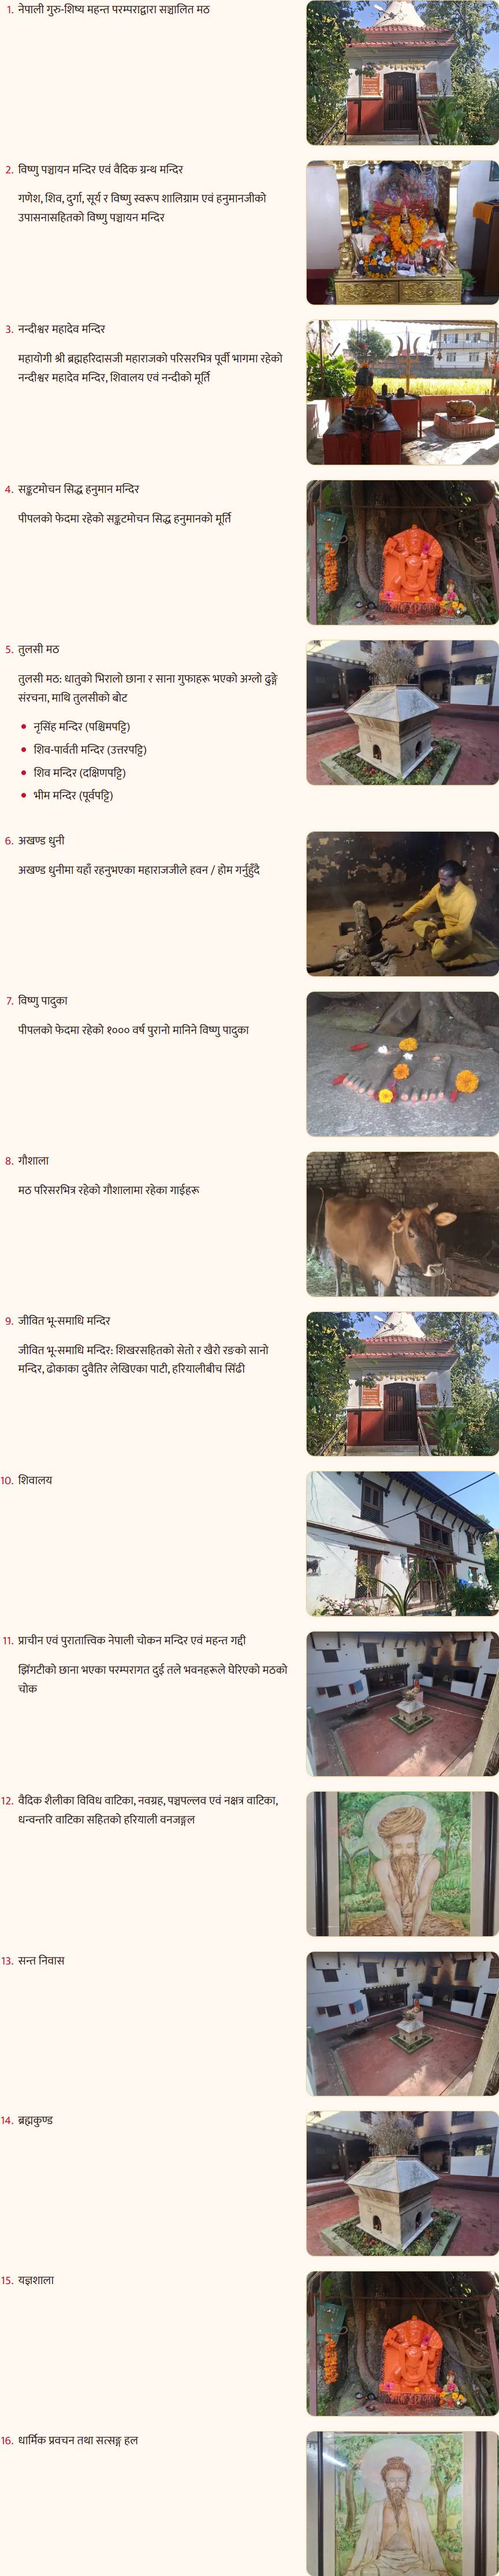
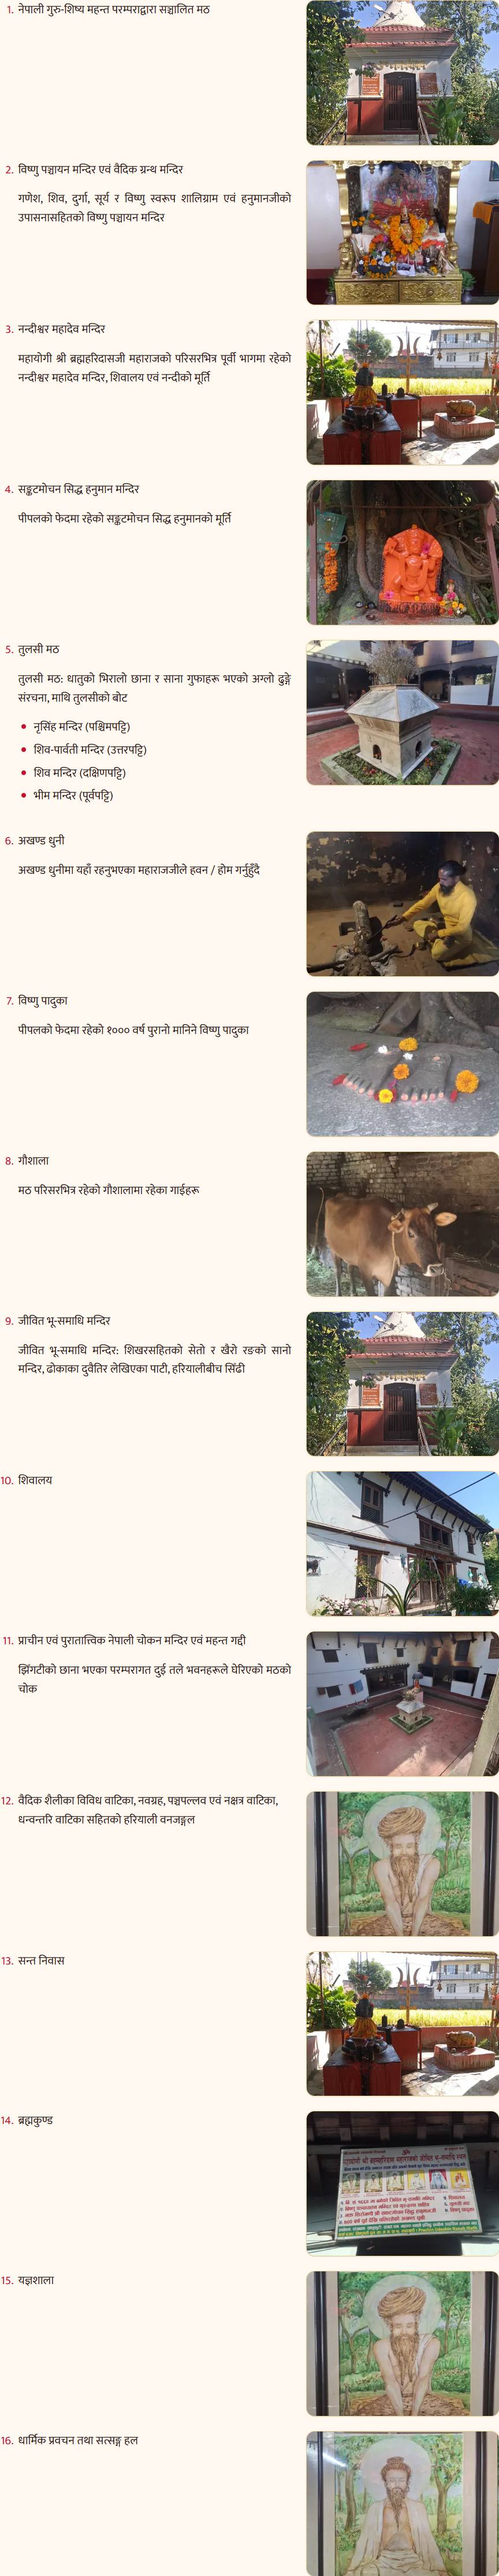
Nanak heritage list: items 13–16 from row 4 of the gallery grid
13 Nandi & Shivalinga, 14 heritage signboard, 15 painting of Brahmaharidas,
16 painting of Gothalramdas (no captions). Screenshots and notes updated.

Changed region(s): [[0.5938, 0.7485, 1.0, 0.9356]]

diff --git a/MISSING_INFO.md b/MISSING_INFO.md
@@ -77,7 +77,7 @@ Most of the missing Mhepi Ajima content, and all ward information, is probably i
 - [ ] **Typos in the Nepali to check (not changed):** "बुद्धिदास महाराजको तिथ" (तिथि); "वि.सं. २०८० असाेज" typed as ा+े (असोज); "वासन्तीक नवरात्र" (वासन्तिक); "विष्णु पञ्चायन" in 4 places (पञ्चायतन elsewhere); "संवर्धन  एवं" double space; "नेपाली चोकन मन्दिर" (चोक?).
 - [ ] **Photos beside "यहाँ भएका सम्पदाहरू" / "The Heritage Here"** (`content/section-photos.json`): matched by Claude using the guru's new photo descriptions. Confirm, especially item 11 (ancient Nepali chok temple and mahant gaddi → `main-courtyard`, the courtyard of the two-storey buildings) and item 2 (`gilded-shrine`, described as the Vishnu Panchayatan temple). No photo yet for items 1, 10 and 12–16.
   - [x] **Item 11 description**: turned on (17 Nov 2026) on confirmation that the courtyard photo matches "the ancient Nepali chok temple and the mahant gaddi". All nine items now show their photo's description.
-  - [x] **Items 1, 10, 12–16** (17 Nov 2026, chosen by the team from the gallery's 4-column grid): 1 samadhi temple, 10 traditional building, 12 painting of Brahmaharidas, 13 main courtyard, 14 tulsi math, 15 shrine under the tree, 16 painting of Gothalramdas, all **without** captions. Now every item has a photo. Four photos appear twice in the list (samadhi temple: 1 and 9; main courtyard: 11 and 13; tulsi math: 5 and 14; Hanuman shrine: 4 and 15); swap them for photos of the actual places when the team has them.
+  - [x] **Items 1, 10, 12–16** (17 Nov 2026, chosen by the team from the gallery's 4-column grid): 1 samadhi temple, 10 traditional building, 12 painting of Brahmaharidas, 13 Nandi & Shivalinga, 14 heritage signboard, 15 painting of Brahmaharidas, 16 painting of Gothalramdas, all **without** captions. Now every item has a photo. Three photos appear twice in the list (samadhi temple: 1 and 9; Nandi & Shivalinga: 3 and 13; painting of Brahmaharidas: 12 and 15); swap them for photos of the actual places when the team has them.
 - [ ] **Alternative name "Siddheshwar Mahadev" — needs a source.** Given by the ward team (13 Nov 2026) but not confirmed. It was removed from the chatbot topic label in the Phase 9 review and is **not shown anywhere** on the site.
   - A search of raw-data found **no occurrence** of Siddheshwar / सिद्धेश्वर (or its spelling variants) in the docx, the transcribed signboards and inscriptions, or any file name. The three web sources don't mention it either.
   - [ ] Give a source for the name (a document, signboard or interview) before it is used anywhere on the site.

diff --git a/docs/screenshots/nanak-list-photos/README.md b/docs/screenshots/nanak-list-photos/README.md
@@ -2,25 +2,24 @@
 
 Captured on 17 Nov 2026 in Microsoft Edge from the strict `npm run build`, branch `content/nanak-list-photos`. The pictures show the list only, in EN and NE, at 375, 768 and 1440 px.
 
-Photos added from the gallery's 4-column (computer) grid, given as column:row. None of these show a caption:
+Photos added from the gallery's 4-column (computer) grid, given as column, row. None of these show a caption:
 
 | Item | Photo | Grid position |
 |---|---|---|
 | 1. The math | samadhi temple | column 1, row 1 (first photo) |
 | 10. The Shivalaya | traditional building | column 3, row 2 |
 | 12. Green forest and gardens | painting of Brahmaharidas | column 3, row 4 |
-| 13. Sant niwas | main courtyard | column 4, row 1 |
-| 14. Brahma Kunda | tulsi math | column 4, row 2 |
-| 15. Yajnashala | shrine under the tree (Hanuman) | column 4, row 3 |
+| 13. Sant niwas | Nandi & Shivalinga | column 1, row 4 |
+| 14. Brahma Kunda | heritage signboard | column 2, row 4 |
+| 15. Yajnashala | painting of Brahmaharidas | column 3, row 4 |
 | 16. Satsang hall | painting of Gothalramdas | column 4, row 4 |
 
 Items 2–9 and 11 keep their photos and captions.
 
-Four photos now appear twice in the list:
+Three photos now appear twice in the list:
 - samadhi temple: items 1 and 9;
-- main courtyard: items 11 and 13;
-- tulsi math: items 5 and 14;
-- Hanuman shrine: items 4 and 15.
+- Nandi & Shivalinga: items 3 and 13;
+- painting of Brahmaharidas: items 12 and 15.
 
 **Checks:** the strict build passes. In EN and NE at 375, 768 and 1440 px:
 - all 16 items have a photo;
